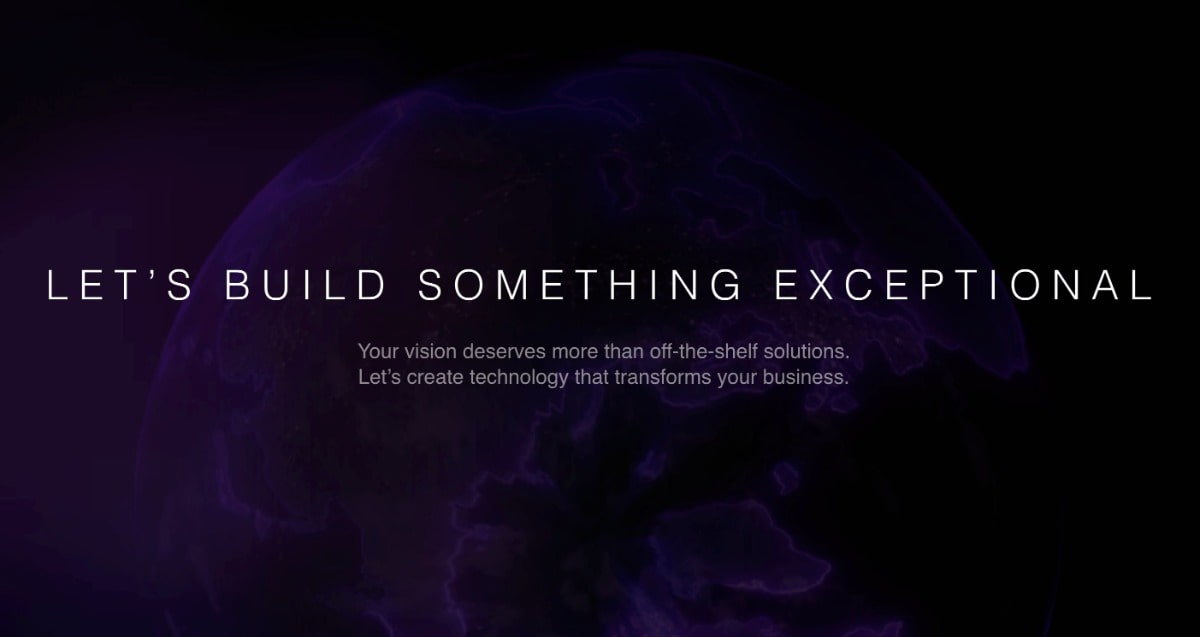
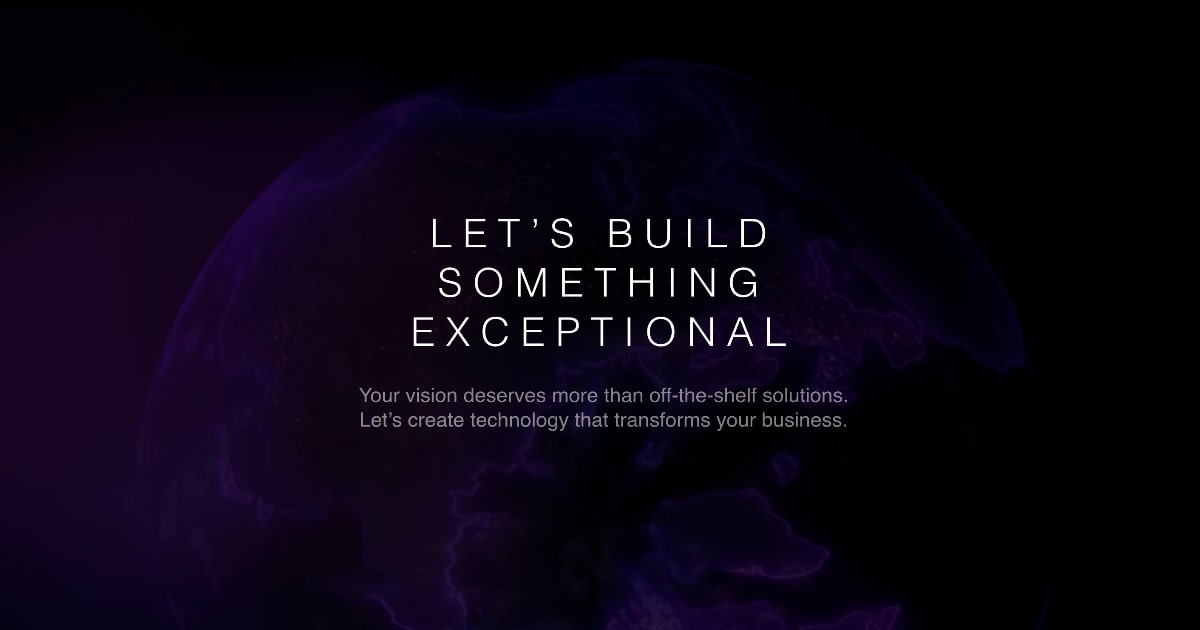
Add Video component, refactor code

diff --git a/src/assets/styles/common.css b/src/assets/styles/common.css
@@ -1,8 +1,8 @@
-@import url('https://fonts.googleapis.com/css2?family=Nunito:ital,opsz,wght@0,6..12,200..1000;1,6..12,200..1000&display=swap');
+@import url('https://fonts.googleapis.com/css2?family=Nunito:wght@200..1000&display=swap');
 
 html {
   scroll-behavior: smooth;
-  background-color: var(--background-color);
+  background-color: var(--color-background);
   font-size: 16px;
   overflow-x: hidden;
 }
@@ -11,7 +11,7 @@ body {
   -webkit-font-smoothing: antialiased;
   -moz-osx-font-smoothing: grayscale;
 
-  background-color: var(--background-color);
+  background-color: var(--color-background);
   color: var(--color-primary);
 
   font-family: "Nunito", sans-serif;
@@ -21,11 +21,6 @@ body {
   font-variation-settings:
     "wdth" 100,
     "YTLC" 500;
-}
-
-a {
-  color: inherit;
-  text-decoration: none;
 }
 
 section {
@@ -38,15 +33,7 @@ section {
   color: var(--color-secondary);
 }
 
-img {
-  -webkit-user-select: none; /* Safari */
-  -moz-user-select: none; /* Firefox */
-  -ms-user-select: none; /* Internet Explorer/Edge */
-  user-select: none; /* Non-prefixed version, currently supported by Chrome, Opera, and Firefox */
-  pointer-events: none; /* Prevents interaction like dragging */
-  -webkit-user-drag: none; /* Prevents dragging in WebKit browsers */
-}
-
+/* #region NuxtImg */
 .image {
   opacity: 1;
   transition: transform .7s 0.7s ease, opacity .7s 0.7s ease;
@@ -56,15 +43,9 @@ img {
   transform: translateY(2rem);
   opacity: 0;
 }
+/* #endregion */
 
-::cue {
-  display: none !important;
-  visibility: hidden !important;
-  color: transparent !important;
-  background-color: transparent !important;
-  background: none !important;
-}
-
+/* #region TABINDEX */
 /* Add custom focus styles for better accessibility */
 :focus-visible {
   outline: 3px dashed var(--color-primary);
@@ -72,15 +53,21 @@ img {
   border-radius: 4px;
   transition: outline-color 0.2s ease-in-out, outline-offset 0.2s ease-in-out;
 }
-
 /* For buttons specifically */
 button:focus-visible {
   outline: none; /* Remove default browser outline */
   box-shadow: 0 0 6px 2px var(--color-primary); /* Glowing effect around the button */
   border-radius: 6px;
   background-color: var(--color-primary);
-  color: var(--background-color);
+  color: var(--color-background);
   transition: box-shadow 0.2s ease-in-out, background-color 0.3s ease-in-out;
+}
+/* #endregion */
+
+/* #region LINKS */
+a {
+  color: inherit;
+  text-decoration: none;
 }
 
 .animated-link {
@@ -107,3 +94,4 @@ button:focus-visible {
   transform: scaleX(1);
   opacity: 1;
 }
+/* #endregion */

diff --git a/src/components/Header.vue b/src/components/Header.vue
@@ -1,19 +1,6 @@
 <template>
   <section class="header">
-    <video
-      ref="video"
-      class="header__background video"
-      autoplay
-      loop
-      muted
-      playsinline
-      @timeupdate="handleTimeUpdate"
-    >
-      <source src="/video/world-planet.webm" type="video/webm">
-      <source src="/video/world-planet.mp4" type="video/mp4">
-      <track src="/video/world-planet.vtt" kind="captions" srclang="en" label="English captions" mode="disabled">
-      Your browser does not support the video tag.
-    </video>
+    <Video class="header__background" name="world-planet" @timeupdate="handleTimeUpdate" />
     <NuxtImg
       src="/img/ds_bg_shadow.png"
       alt="DeSource Labs Shadow"
@@ -33,18 +20,19 @@
 </template>
 
 <script setup lang="ts">
-const video = ref<HTMLVideoElement | null>(null);
+import type { VideoEvent } from '~/types';
 
-const handleTimeUpdate = () => {
+const handleTimeUpdate = (event: VideoEvent) => {
+  const video = event.target;
   const blurDuration = 2; // Duration in seconds
-  if (video.value) {
-    const remainingTime = video.value.duration - video.value.currentTime;
+  if (video) {
+    const remainingTime = video.duration - video.currentTime;
     if (remainingTime < blurDuration) {
-      video.value.style.opacity = "0.1";
-      video.value.style.filter = `blur(100px)`;
+      video.style.opacity = '0.1';
+      video.style.filter = `blur(100px)`;
     } else {
-      video.value.style.opacity = "0.5";
-      video.value.style.filter = `blur(0)`;
+      video.style.opacity = '0.5';
+      video.style.filter = `blur(0)`;
     }
   }
 };
@@ -70,8 +58,6 @@ const handleTimeUpdate = () => {
 }
 .header__background {
   z-index: 0;
-}
-.header__background.video {
   opacity: 0.5;
   filter: blur(0);
   transition: opacity 2s ease, filter 8s ease;

diff --git a/src/components/Button.vue b/src/components/Button.vue
@@ -26,7 +26,10 @@
 </template>
 
 <script setup lang="ts">
-const { type, href } = defineProps<{ type?: 'primary' | 'secondary'; href?: string }>();
+defineProps<{
+  type?: 'primary' | 'secondary';
+  href?: string;
+}>();
 </script>
 
 <style scoped>
@@ -37,10 +40,10 @@ const { type, href } = defineProps<{ type?: 'primary' | 'secondary'; href?: stri
   align-items: center;
   justify-content: center;
   padding: 8px 20px;
-  border: 1px solid #FFFFFF;
+  border: 1px solid var(--color-primary);
   border-radius: 100vw;
-  color: #000000;
-  background-color: #FFFFFF;
+  color: var(--color-background);
+  background-color: var(--color-primary);
   font-size: 18px;
   font-weight: 500;
   letter-spacing: 0.005em;
@@ -55,7 +58,7 @@ const { type, href } = defineProps<{ type?: 'primary' | 'secondary'; href?: stri
 }
 
 .button.secondary {
-  color: #FFFFFF;
+  color: var(--color-primary);
   border: 1px solid #646464;
   background-color: #333333;
 }

diff --git a/src/components/Main.vue b/src/components/Main.vue
@@ -1,17 +1,6 @@
 <template>
   <section class="main">
-    <video
-      class="main__visual"
-      autoplay
-      loop
-      muted
-      playsinline
-    >
-      <source src="/video/cubic.webm" type="video/webm">
-      <source src="/video/cubic.mp4" type="video/mp4">
-      <track src="/video/cubic.vtt" kind="captions" srclang="en" label="English captions" mode="disabled">
-      Your browser does not support the video tag.
-    </video>
+    <Video class="main__visual" name="cubic" />
     <p class="main__title h4">Innovation, Engineered for Scale</p>
     <p class="main__description desc1 p1">
       We partner with forward-thinking companies to craft custom technology that drives growth and redefines possibilities.
@@ -30,8 +19,6 @@
     </Button>
   </section>
 </template>
-
-<script setup lang="ts"></script>
 
 <style scoped>
 .main {

diff --git a/src/components/TeamMember.vue b/src/components/TeamMember.vue
@@ -10,9 +10,9 @@
       format="webp"
       loading="lazy"
     />
-    <p class="team__name p3">{{ member.title }}</p>
-    <p class="team__role p3">{{ member.desc }}</p>
-    <div v-once class="team__socials">
+    <p class="bolder p3">{{ member.title }}</p>
+    <p class="bolder p3 secondary">{{ member.desc }}</p>
+    <div v-once class="team__socials secondary">
       <Social
         v-for="social in member.socials"
         size="1.2rem"
@@ -43,17 +43,12 @@ defineProps<{
 .team__photo {
   border-radius: 1rem;
 }
-.team__name {
+.bolder {
   font-weight: 500;
-}
-.team__role {
-  font-weight: 500;
-  color: var(--color-secondary);
 }
 .team__socials {
   align-items: center;
   display: inline-flex;
   gap: 0.5rem;
-  color: var(--color-secondary);
 }
 </style>

diff --git a/src/error.vue b/src/error.vue
@@ -1,18 +1,3 @@
-<script setup lang="ts">
-const { error } = defineProps<{
-  error: {
-    url: string
-    statusCode: number
-    statusMessage: string
-    message: string
-    description: string
-    data: any
-  }
-}>()
-
-const handleError = () => clearError({ redirect: '/' })
-</script>
-
 <template>
   <main>
     <Header />
@@ -27,6 +12,21 @@ const handleError = () => clearError({ redirect: '/' })
     <Footer />
   </main>
 </template>
+
+<script setup lang="ts">
+const { error } = defineProps<{
+  error: {
+    url: string
+    statusCode: number
+    statusMessage: string
+    message: string
+    description: string
+    data: any
+  }
+}>();
+
+const handleError = () => clearError({ redirect: '/' });
+</script>
 
 <style scoped>
 main {

diff --git a/src/components/Video.vue b/src/components/Video.vue
@@ -1,0 +1,25 @@
+<template>
+  <video
+    autoplay
+    loop
+    muted
+    playsinline
+    @timeupdate="(payload: Event) => emit('timeupdate', payload as VideoEvent)"
+  >
+    <source :src="'/video/' + name + '.webm'" type="video/webm">
+    <source :src="'/video/' + name + '.mp4'" type="video/mp4">
+    <track :src="'/video/' + name + '.vtt'" kind="captions" srclang="en" label="English captions" mode="disabled">
+    Your browser does not support the video tag.
+  </video>
+</template>
+
+<script setup lang="ts">
+import type { VideoEvent } from '~/types';
+
+defineProps<{ name: string }>();
+
+const emit = defineEmits<{
+  (event: 'timeupdate', value: VideoEvent): void;
+  (event: 'completed'): void;
+}>();
+</script>

diff --git a/src/assets/styles/reset.css b/src/assets/styles/reset.css
@@ -89,3 +89,22 @@ table {
 :focus {
   outline: none;
 }
+
+/* Hide the default video track */
+::cue {
+  display: none !important;
+  visibility: hidden !important;
+  color: transparent !important;
+  background-color: transparent !important;
+  background: none !important;
+}
+
+/* Prevent text selection */
+img {
+  -webkit-user-select: none; /* Safari */
+  -moz-user-select: none; /* Firefox */
+  -ms-user-select: none; /* Internet Explorer/Edge */
+  user-select: none; /* Non-prefixed version, currently supported by Chrome, Opera, and Firefox */
+  pointer-events: none; /* Prevents interaction like dragging */
+  -webkit-user-drag: none; /* Prevents dragging in WebKit browsers */
+}

diff --git a/src/components/Stack.vue b/src/components/Stack.vue
@@ -31,22 +31,9 @@
         </p>
       </div>
     </div>
-    <video
-      class="stack__visual"
-      autoplay
-      loop
-      muted
-      playsinline
-    >
-      <source src="/video/chips.webm" type="video/webm">
-      <source src="/video/chips.mp4" type="video/mp4">
-      <track src="/video/chips.vtt" kind="captions" srclang="en" label="English captions" mode="disabled">
-      Your browser does not support the video tag.
-    </video>
+    <Video class="stack__visual" name="chips" />
   </section>
 </template>
-
-<script setup lang="ts"></script>
 
 <style scoped>
 .stack {

diff --git a/meta.ts b/meta.ts
@@ -6,6 +6,6 @@ export const meta = {
   keywords: 'software engineering, blockchain, web3, telegram mini apps, front-end development, back-end development, ux, user experience, software development, software solutions, software company, software development company, software engineering company, software development services, software development agency, software engineering services, software engineering agency',
   ogImage: `${process.env.NUXT_PUBLIC_BASE_URL || ''}/og.jpg`,
   ogImageWidth: '1200',
-  ogImageHeight: '637',
+  ogImageHeight: '630',
   x: '@desource-labs',
 };

diff --git a/src/components/Footer.vue b/src/components/Footer.vue
@@ -5,7 +5,6 @@
       <Social
         v-for="social in socials"
         size="1.2rem"
-        color="var(--color-primary)"
         :key="social.type"
         :aria-label="`Visit DeSource Labs ${social.type}`"
         :type="social.type"
@@ -43,7 +42,7 @@ const socials = socialMediaArray;
   display: flex;
   gap: 1rem;
 }
-a, .p4 {
+.p4 {
   color: var(--color-secondary);
   letter-spacing: 0.03em;
 }

diff --git a/src/assets/styles/variables.css b/src/assets/styles/variables.css
@@ -1,7 +1,7 @@
 :root {
   --gradient-bg: linear-gradient(180deg, rgba(217, 217, 217, 0.12) 0%, rgba(115, 115, 115, 0) 20%);
   --color-primary: #fff;
-  --background-color: #000;
+  --color-background: #000;
   --color-secondary: rgba(255, 255, 255, 0.5);
   --color-tertiary: rgba(255, 255, 255, 0.6);
   --xs: 320px;
